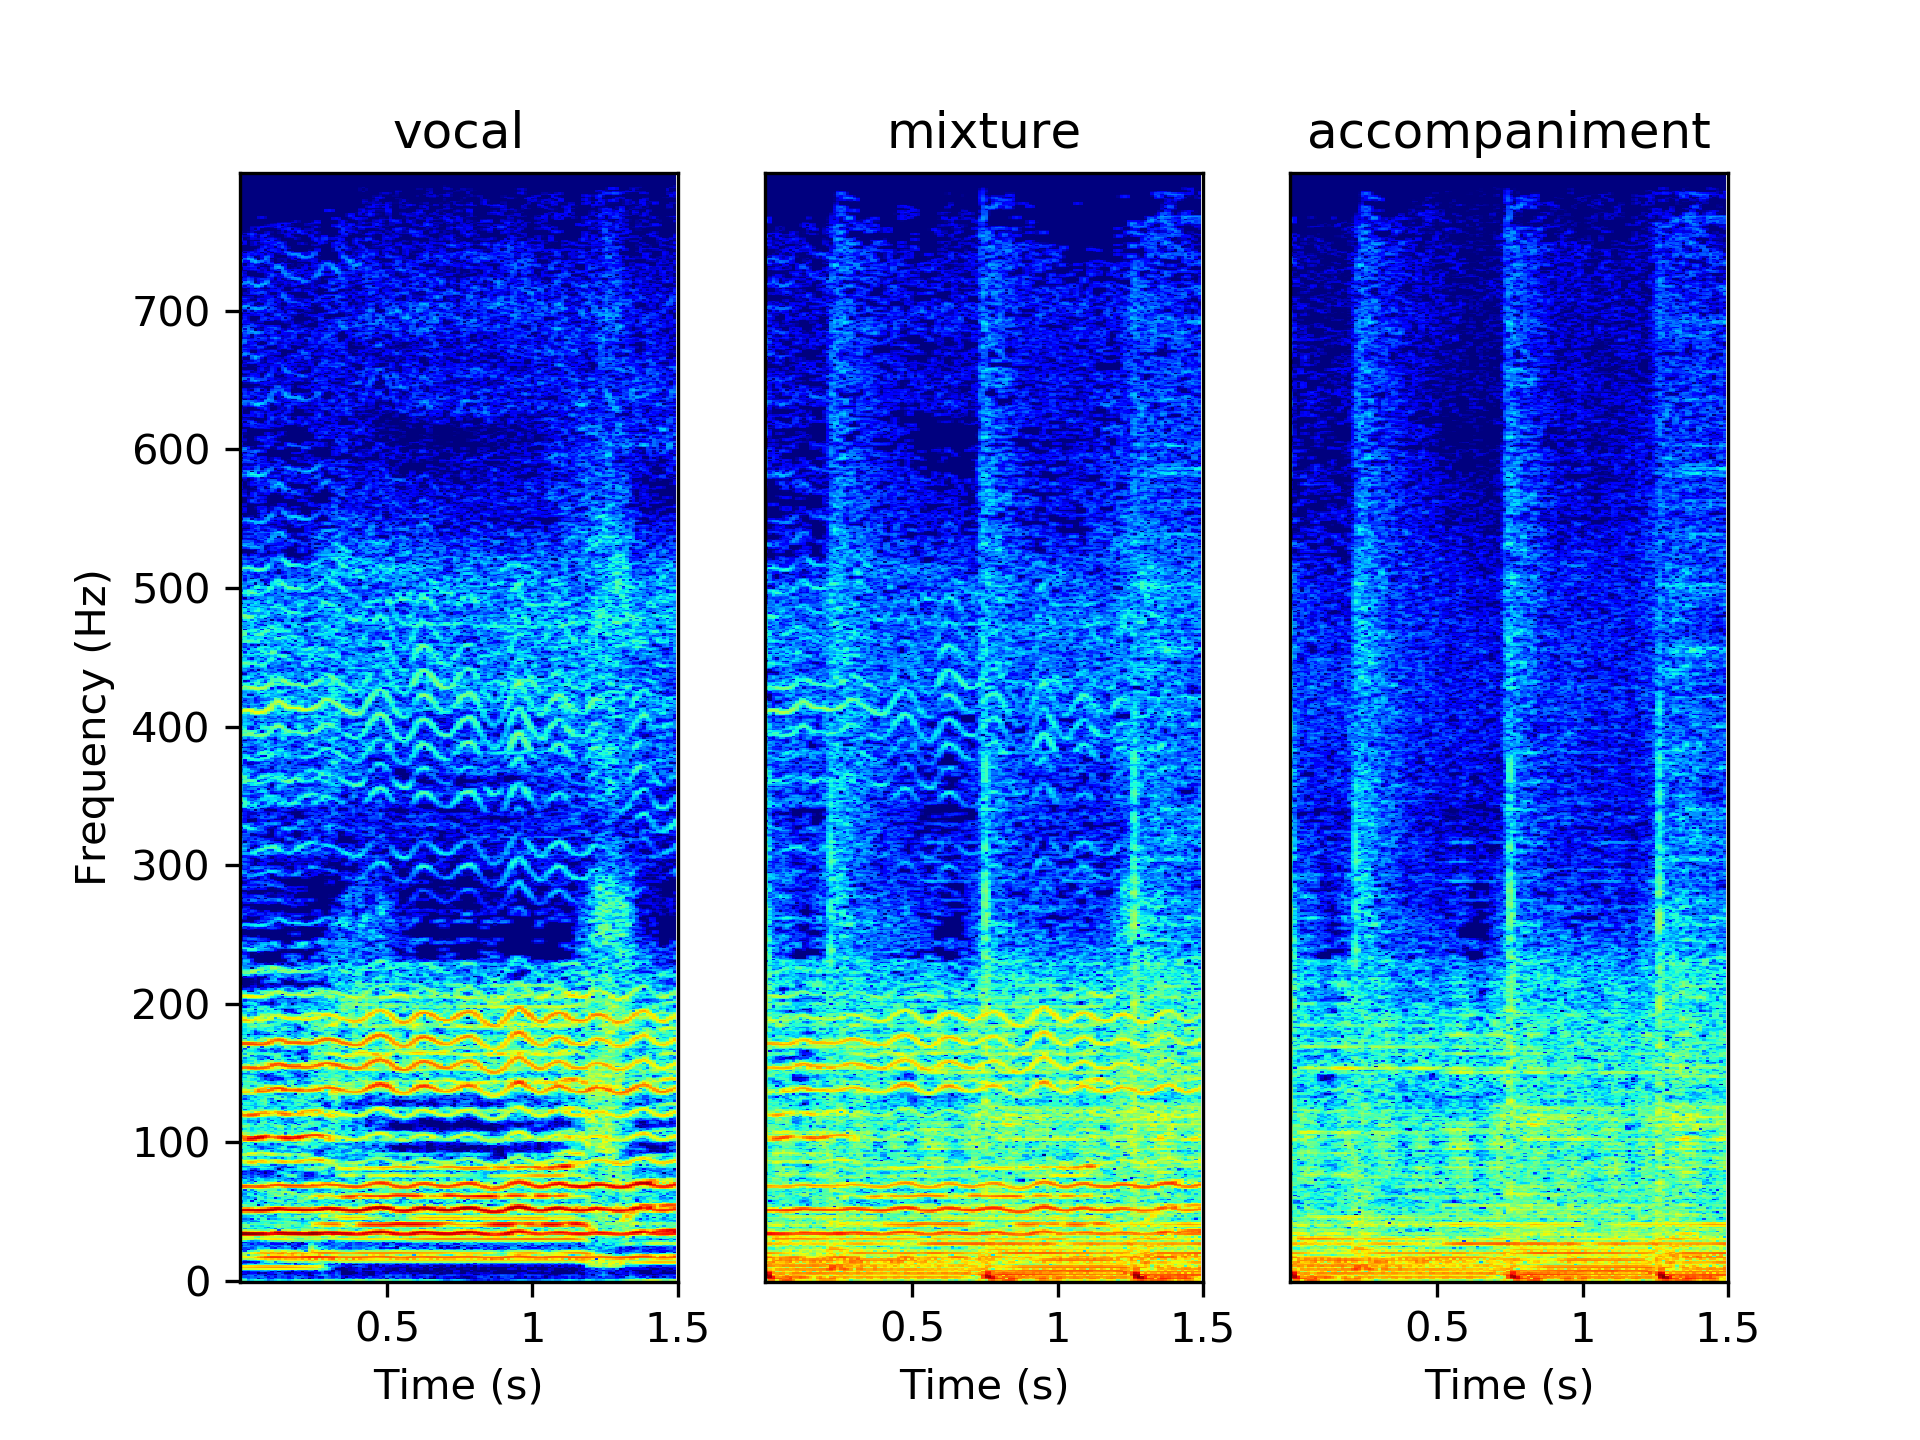
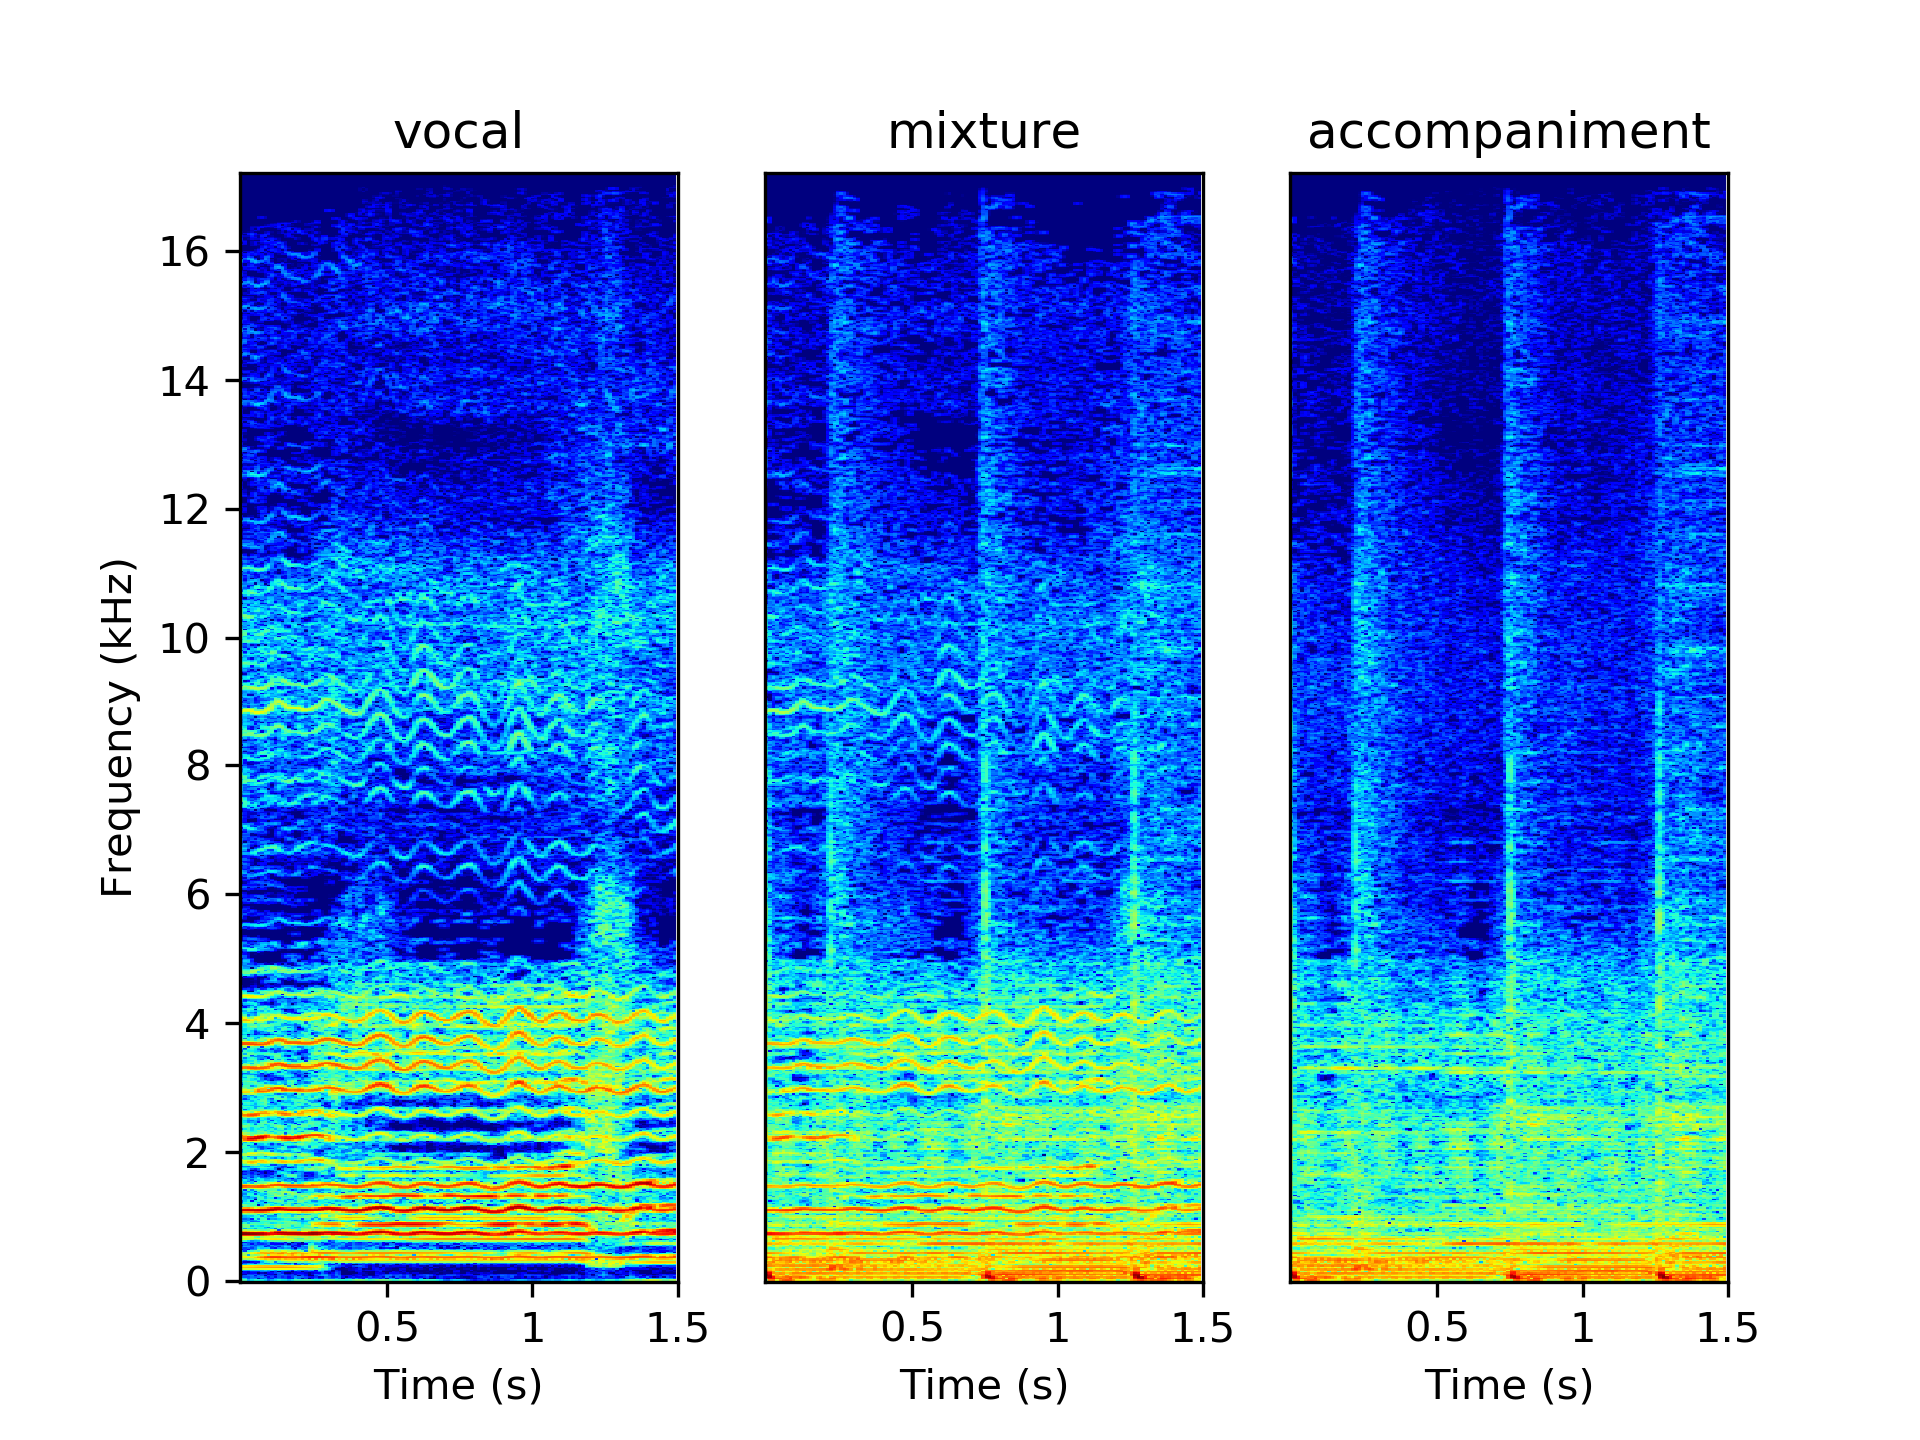
fix bin to hz, khz

diff --git a/plot/spectrogram.py b/plot/spectrogram.py
@@ -18,6 +18,12 @@ times = [0.5, 1, 1.5]
 frames_to_time = librosa.core.time_to_frames(times, sr=44100, hop_length=512, n_fft=None)
 print(frames_to_time)
 
+fft_frequencies = librosa.core.fft_frequencies(sr=44100, n_fft=2048)
+hz_per_bin = fft_frequencies[3]-fft_frequencies[2]
+hzs = [2000 * i for i in range(10)]
+khzs = [hz//1000 for hz in hzs]
+f_idxs = [int(round(hz/hz_per_bin, 0)) for hz in hzs]
+
 for sid in range(18, 19):
     vocal_gt, _ = librosa.load(str(data_foler / f"gt_vocal-{sid}.mp4"), sr=44100)
     mix_gt, _ = librosa.load(str(data_foler / f"gt_mix-{sid}.mp4"), sr=44100)
@@ -33,8 +39,10 @@ for sid in range(18, 19):
     fig, axes = plt.subplots(nrows=1, ncols=3, dpi=300)
 
     title_str = "vocal"
-    axes[0].set_ylabel("Frequency (Hz)")
+    axes[0].set_ylabel("Frequency (kHz)")
     axes[0].set_xlabel("Time (s)")
+    axes[0].set_yticks(f_idxs)
+    axes[0].set_yticklabels(khzs)
     axes[0].set_title(title_str)
     axes[0].imshow(vocals_mag, origin='lower', aspect='auto')
     axes[0].set_xticks(frames_to_time)
@@ -67,21 +75,12 @@ for sid in range(18, 19):
     axes[2].set_xticks(frames_to_time)
     axes[2].set_xticklabels(times)
 
-
     # cbar = fig.colorbar(im)
     # cbar.ax.set_ylabel('Magnitude (dB)', rotation=270)
 
     plt.savefig('spec.png')
 
+    # plt.show()
+
     # break
 
-    # fig, axes = plt.subplots(nrows=2, ncols=2)
-    # for ax in axes.flat:
-    #     im = ax.imshow(np.random.random((10, 10)), vmin=0, vmax=1)
-    #
-    # fig.subplots_adjust(right=0.8)
-    # cbar_ax = fig.add_axes([0.85, 0.15, 0.05, 0.7])
-    # fig.colorbar(im, cax=cbar_ax)
-    #
-    # plt.show()
-    # break
